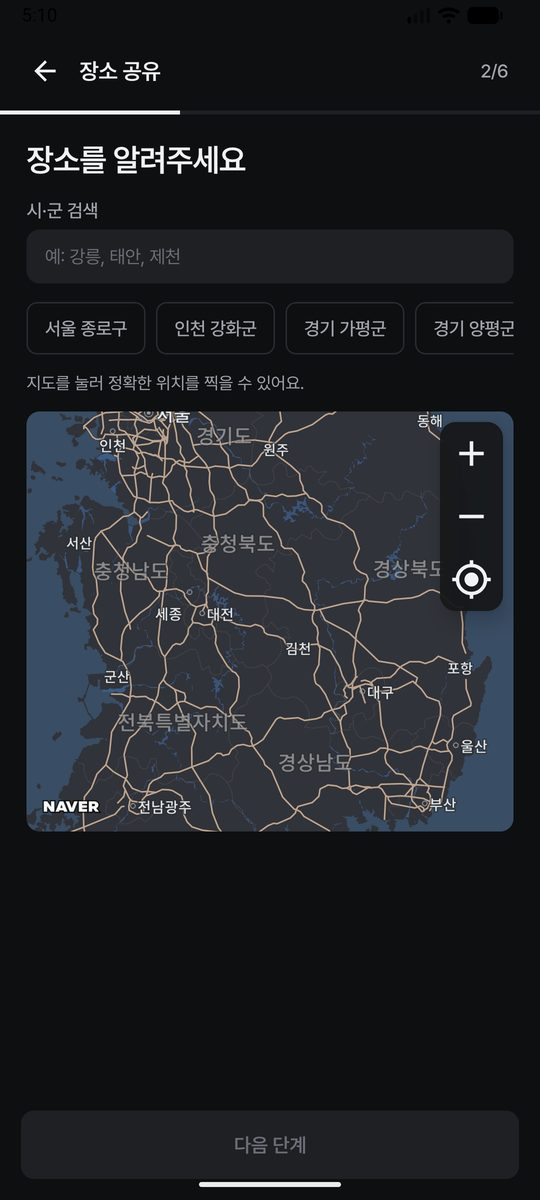
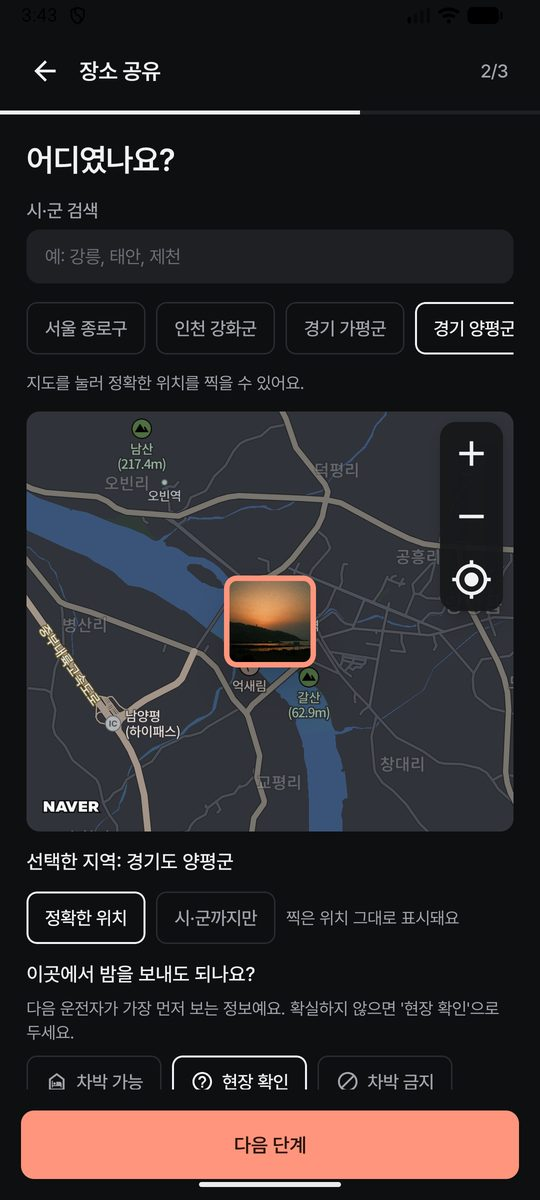
Retake the screenshots the slimmer structure changed
Car map with the single toggle and three-line card, 내 장소, the 휴대폰 tab,
the account screen with the approximate-파킷 setting, the phone's new share
step 2 and the password sign-in. Captions updated to match.

diff --git a/README.md b/README.md
@@ -23,7 +23,7 @@ Pleos 헤드유닛에서는 왼쪽 클러스터 옆 창에 앱이 열립니다. 
   </tr>
   <tr>
     <td><img src="docs/images/car-detail-items.jpg" alt="장소 상세의 준비물 탭. 가격, 추천한 사람, 광고·제휴 표시"></td>
-    <td><img src="docs/images/car-album.jpg" alt="앨범의 추천 탭 사진 그리드"></td>
+    <td><img src="docs/images/car-album.jpg" alt="내 장소의 저장한 장소 탭. 오늘 해를 보러 간다면 카드와 저장한 사진"></td>
   </tr>
   <tr>
     <td><b>준비물</b> · 방문자들이 챙겨 간 물건과 가격, 광고·제휴 표시, 구매는 휴대폰으로</td>
@@ -39,7 +39,7 @@ Pleos 헤드유닛에서는 왼쪽 클러스터 옆 창에 앱이 열립니다. 
   </tr>
   <tr>
     <td><img src="docs/images/car-pairing.jpg" alt="휴대폰 계정과 연결하기 화면의 6자리 코드"></td>
-    <td><img src="docs/images/car-account.jpg" alt="휴대폰과 연결되어 있어요 화면"></td>
+    <td><img src="docs/images/car-account.jpg" alt="휴대폰과 연결되어 있어요 화면과 파킷 위치를 시·군 중심으로만 보내기 설정"></td>
   </tr>
   <tr>
     <td><b>계정 연결</b> · 휴대폰에 입력할 6자리 코드(10분마다 새 코드)</td>
@@ -51,7 +51,7 @@ Pleos 헤드유닛에서는 왼쪽 클러스터 옆 창에 앱이 열립니다. 
 
 <table>
   <tr>
-    <td width="25%"><img src="docs/images/phone-signin.jpg" alt="닉네임 로그인 화면"></td>
+    <td width="25%"><img src="docs/images/phone-signin.jpg" alt="닉네임과 비밀번호 로그인 화면"></td>
     <td width="25%"><img src="docs/images/phone-home.jpg" alt="홈 피드의 나를 위한 추천 탭"></td>
     <td width="25%"><img src="docs/images/phone-map.jpg" alt="지도와 선택한 장소 카드"></td>
     <td width="25%"><img src="docs/images/phone-detail.jpg" alt="장소 상세 상단 사진 갤러리"></td>
@@ -65,7 +65,7 @@ Pleos 헤드유닛에서는 왼쪽 클러스터 옆 창에 앱이 열립니다. 
   <tr>
     <td><img src="docs/images/phone-tips.jpg" alt="장소 상세의 방문 꿀팁과 차량으로 보내기 버튼"></td>
     <td><img src="docs/images/phone-share-photo.jpg" alt="장소 공유 1단계 사진 고르기"></td>
-    <td><img src="docs/images/phone-share-place.jpg" alt="장소 공유 2단계 시·군과 지도 핀"></td>
+    <td><img src="docs/images/phone-share-place.jpg" alt="장소 공유 2단계. 시·군과 지도 핀, 위치 공개 수준, 차박 가능 여부"></td>
     <td><img src="docs/images/phone-car.jpg" alt="내 차량 탭의 차량 연결 카드와 콘셉트 안내"></td>
   </tr>
   <tr>
